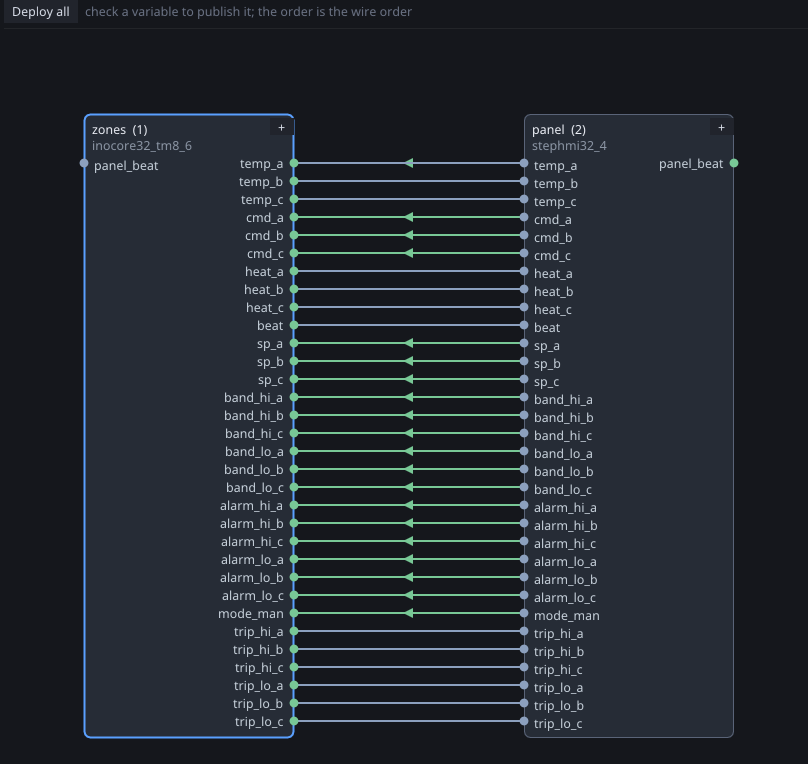
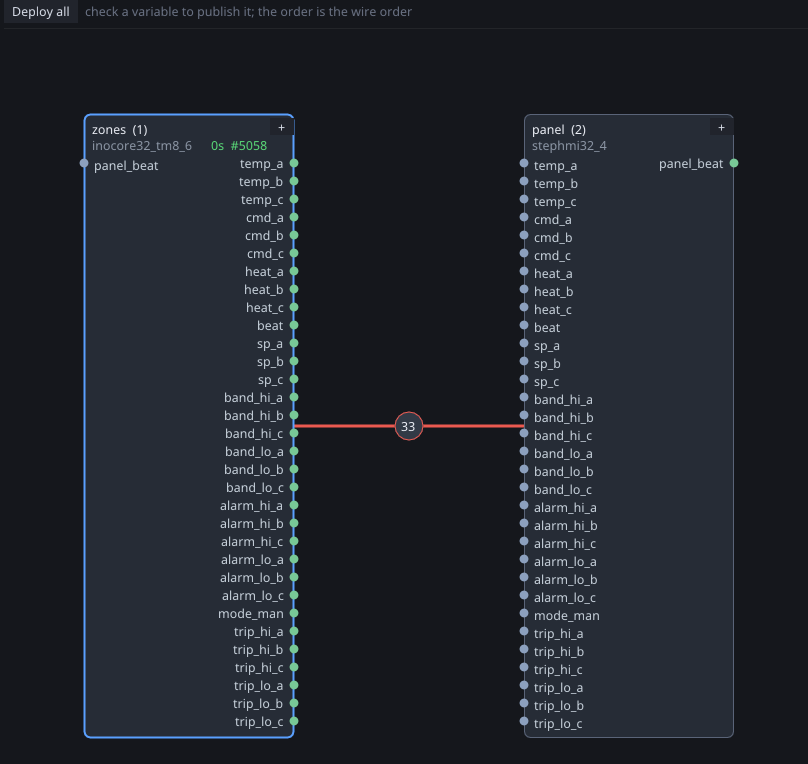
net32: the tree shows every device, the wire is one
The system-project section follows the editor's first-use round:
every device is its own full project tree (click anywhere in another
device's tree to switch), and everything shared between two devices
rides one wire with the count on it — clicking it opens the variable
list. Both screenshots regenerated; the wire in the shot is red
honestly (the bench panel is silent).

diff --git a/docs/net32.md b/docs/net32.md
@@ -67,11 +67,26 @@ The natural way to build a net32 system is **one project holding
 every device**. Right-click the project name in the device tree and
 pick **Add device (make a net32 system)** — the open project becomes
 the first device and the installation grows from there, all in a
-single `.prj32` file. Each device keeps its own screens, logic,
-variables and buses exactly as before; you switch between them with
-a click in the tree, and one **Save** stores the whole system.
+single `.prj32` file. Every device shows as **its own full project
+tree** — screens, logic, variables, buses — so the whole
+installation is visible at once; the active device is the one you
+edit, and a click anywhere in another device's tree switches to it.
+One **Save** stores the whole system.
 
-![The system level in the device tree — one row per device, the active one selected](img/net32-tree.webp){: .sb-center}
+![Every device is its own project tree — the active one is live](img/net32-tree.webp){: .sb-center}
+
+Clicking the system name at the top of the tree opens the **net32
+canvas**: one card per device, its published variables as pins on
+the right, its subscriptions arriving on the left. **Drag a line
+from a published pin onto another card and the subscription exists**
+— the local variable on the subscriber is created for you, named and
+typed to match. Everything shared between two devices rides **one
+wire** with the count on it; clicking the wire opens its variable
+list, where single subscriptions are removed and the peer's health
+variable is added. A checkbox on the card publishes a variable, and
+while the canvas is open the wire shows the live truth — green when
+both ends are alive and speaking the expected layout, red when one
+falls silent.
 
 ![net32 system canvas](img/net32-system.webp)
 
